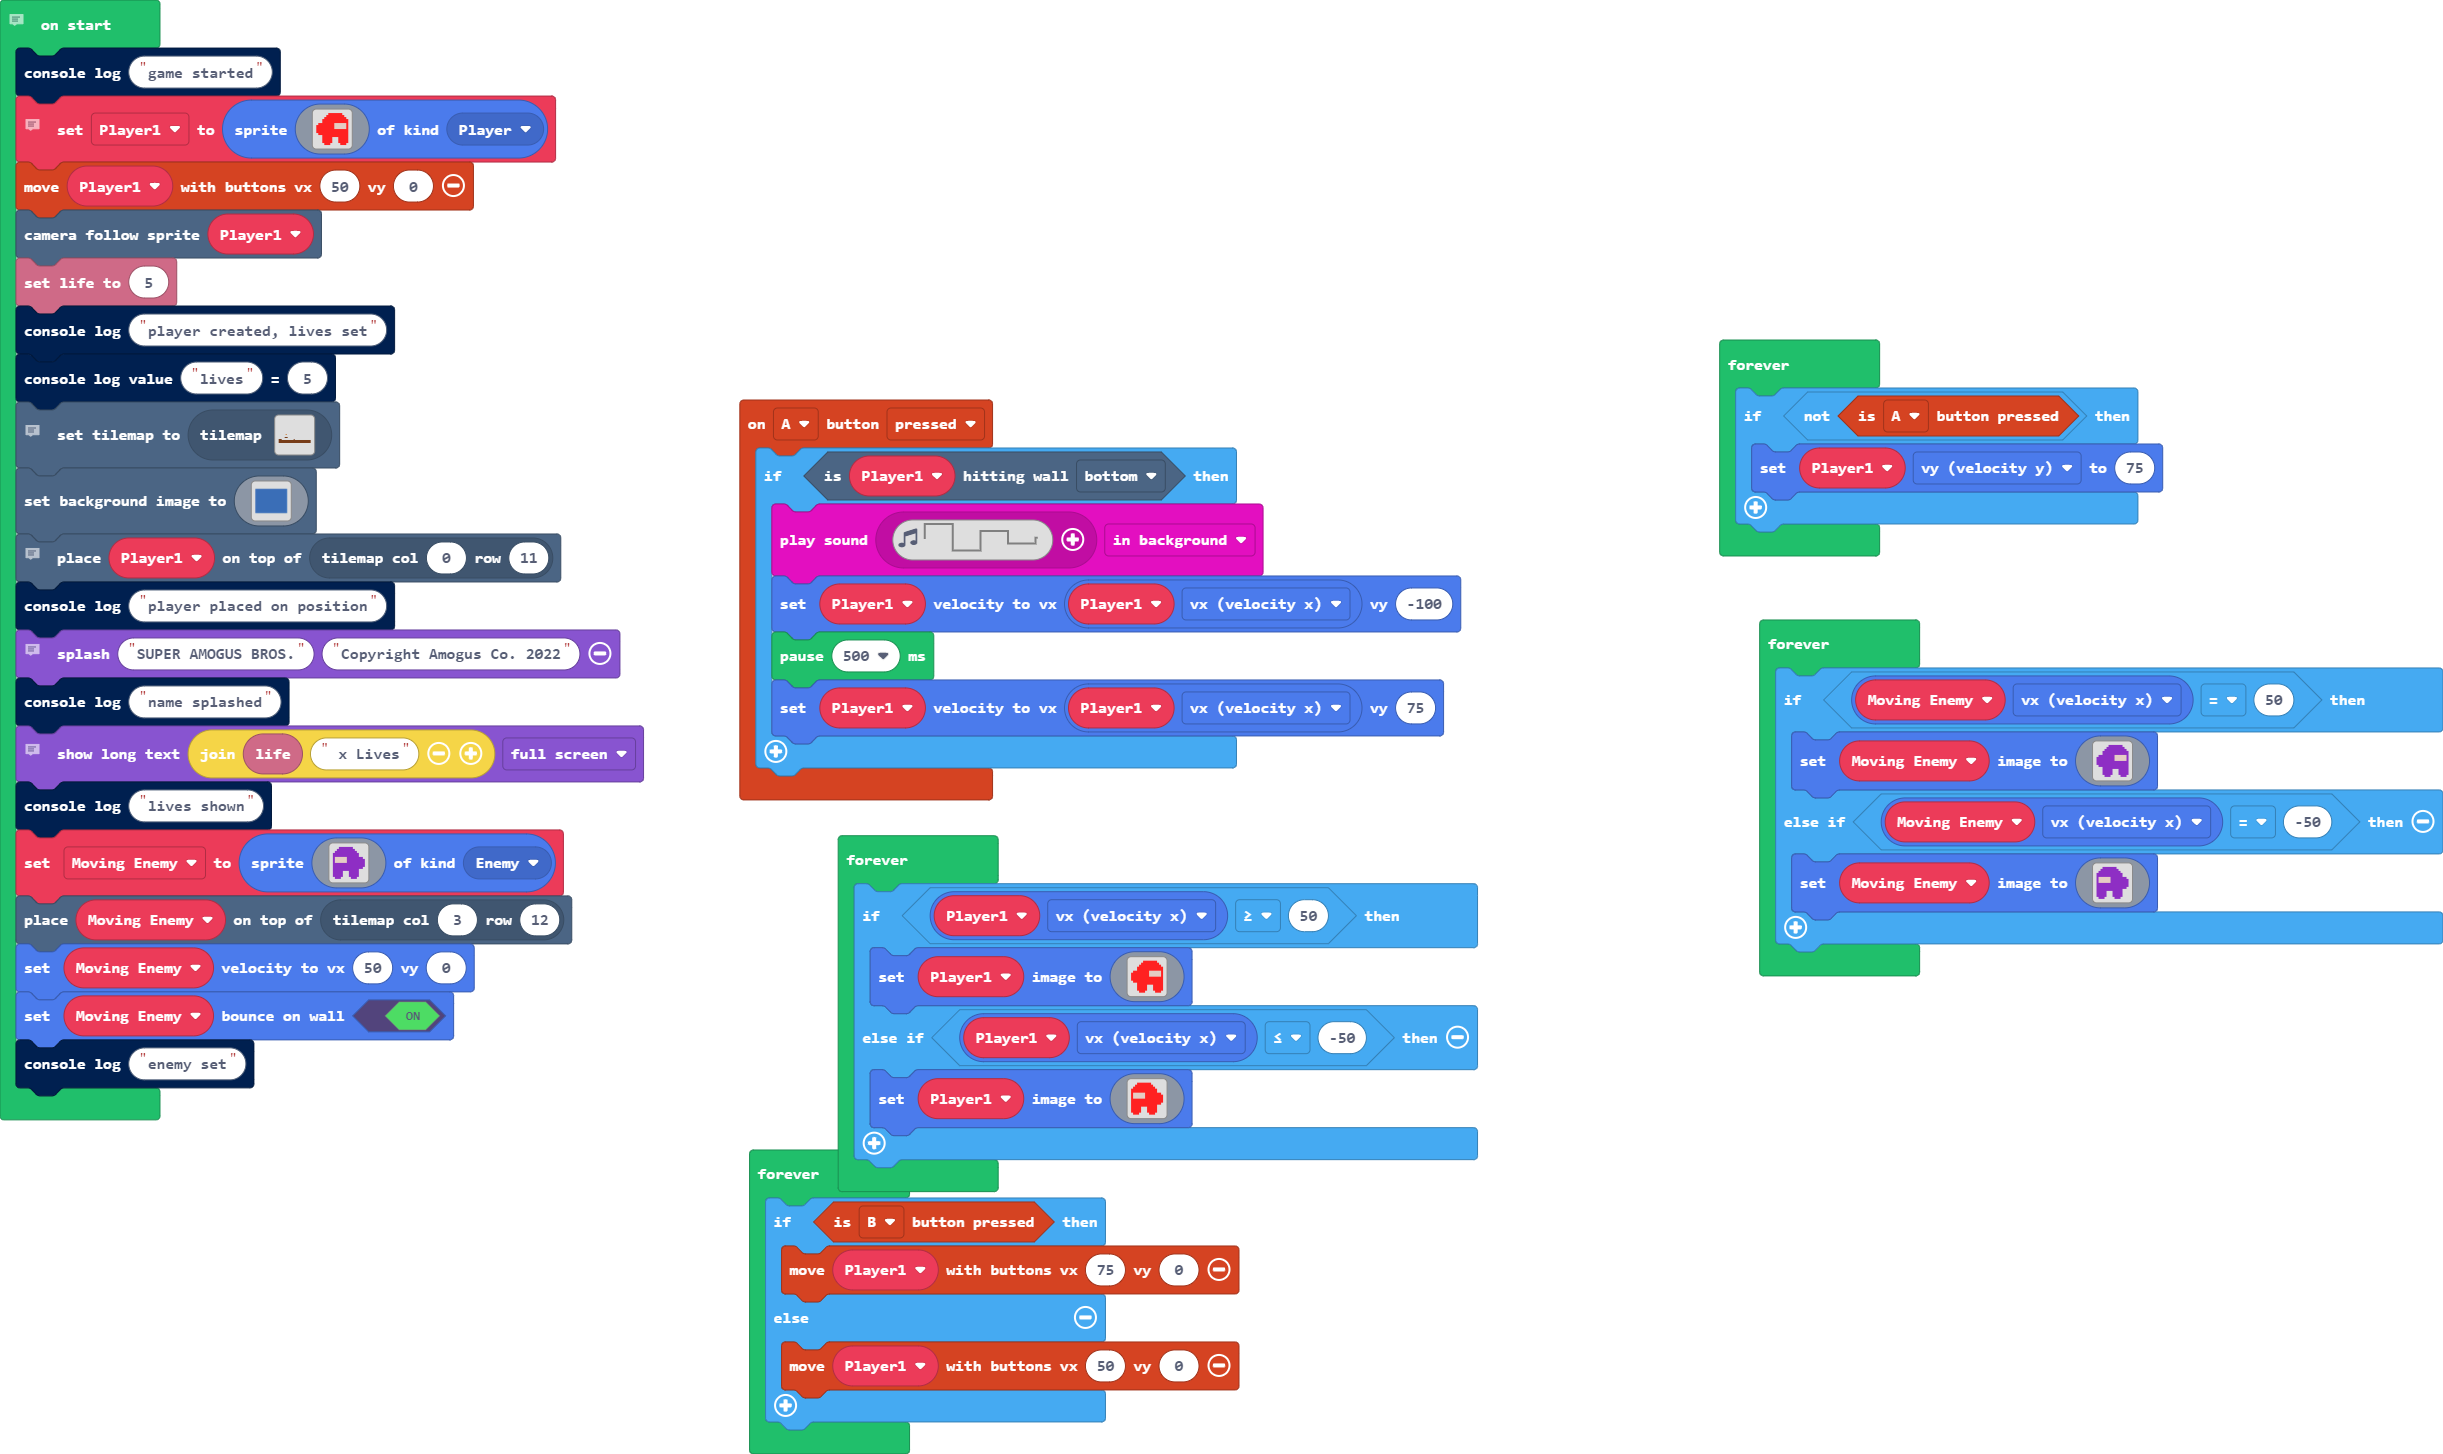
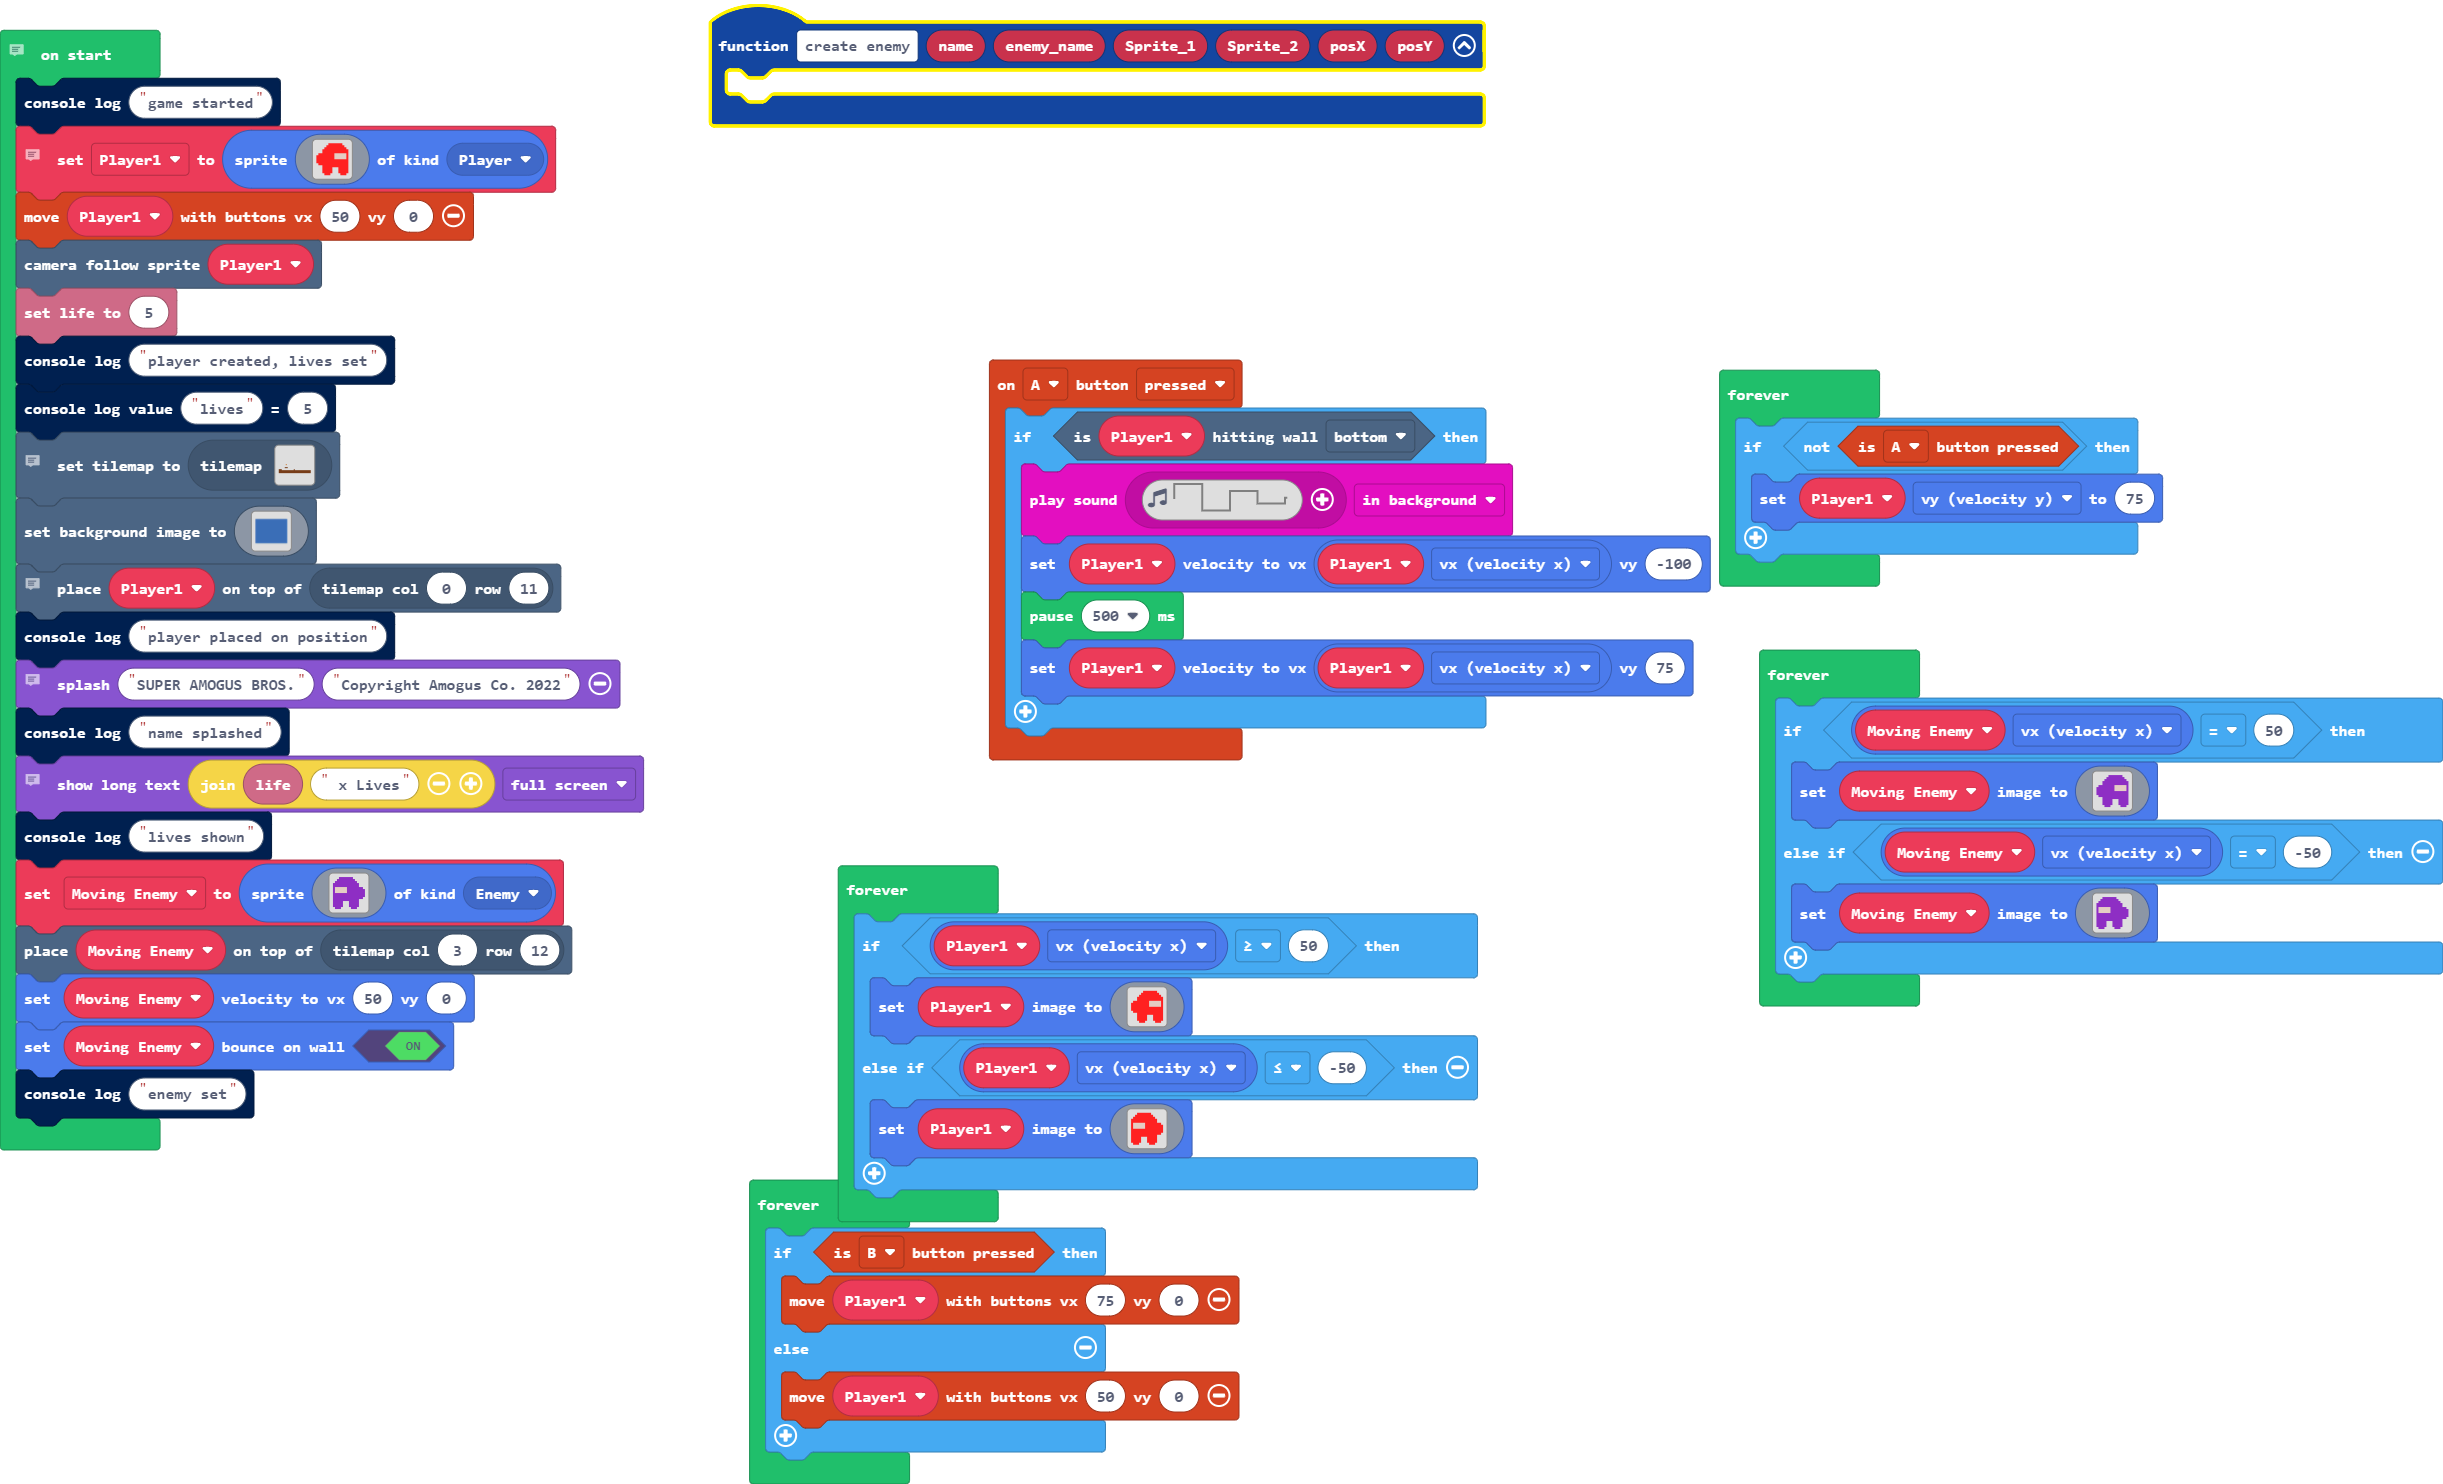
Update main.blocks, main.ts, tilemap.g.jres, tilemap.g.ts

Changed region(s): [[0.0, 0.0, 1.0, 0.9904], [0.28, 0.0, 0.6222, 0.0928]]

diff --git a/tilemap.g.ts b/tilemap.g.ts
@@ -68,6 +68,25 @@ namespace myTiles {
 . . . . . . . . . . . . . . . . 
 . . . . . . . . . . . . . . . . 
 `, [myTiles.transparency16], TileScale.Sixteen);
+            case "level4":
+            case "level4":return tiles.createTilemap(hex`1000100000000000000000000000000000000000000000000000000000000000000000000000000000000000000000000000000000000000000000000000000000000000000000000000000000000000000000000000000000000000000000000000000000000000000000000000000000000000000000000000000000000000000000000000000000000000000000000000000000000000000000000000000000000000000000000000000000000000000000000000000000000000000000000000000000000000000000000000000000000000000000000000000000000000000000000000000000000000000000000000000000000000000000000000000000000000`, img`
+. . . . . . . . . . . . . . . . 
+. . . . . . . . . . . . . . . . 
+. . . . . . . . . . . . . . . . 
+. . . . . . . . . . . . . . . . 
+. . . . . . . . . . . . . . . . 
+. . . . . . . . . . . . . . . . 
+. . . . . . . . . . . . . . . . 
+. . . . . . . . . . . . . . . . 
+. . . . . . . . . . . . . . . . 
+. . . . . . . . . . . . . . . . 
+. . . . . . . . . . . . . . . . 
+. . . . . . . . . . . . . . . . 
+. . . . . . . . . . . . . . . . 
+. . . . . . . . . . . . . . . . 
+. . . . . . . . . . . . . . . . 
+. . . . . . . . . . . . . . . . 
+`, [myTiles.transparency16], TileScale.Sixteen);
         }
         return null;
     })

diff --git a/main.ts b/main.ts
@@ -6,6 +6,9 @@ controller.A.onEvent(ControllerButtonEvent.Pressed, function () {
         Player1.setVelocity(Player1.vx, 75)
     }
 })
+function create_enemy (name: string, enemy_name: Sprite, Sprite_1: Image, Sprite_2: Image, posX: number, posY: number) {
+	
+}
 // This sets up the game and stuff
 let Player1: Sprite = null
 console.log("game started")
